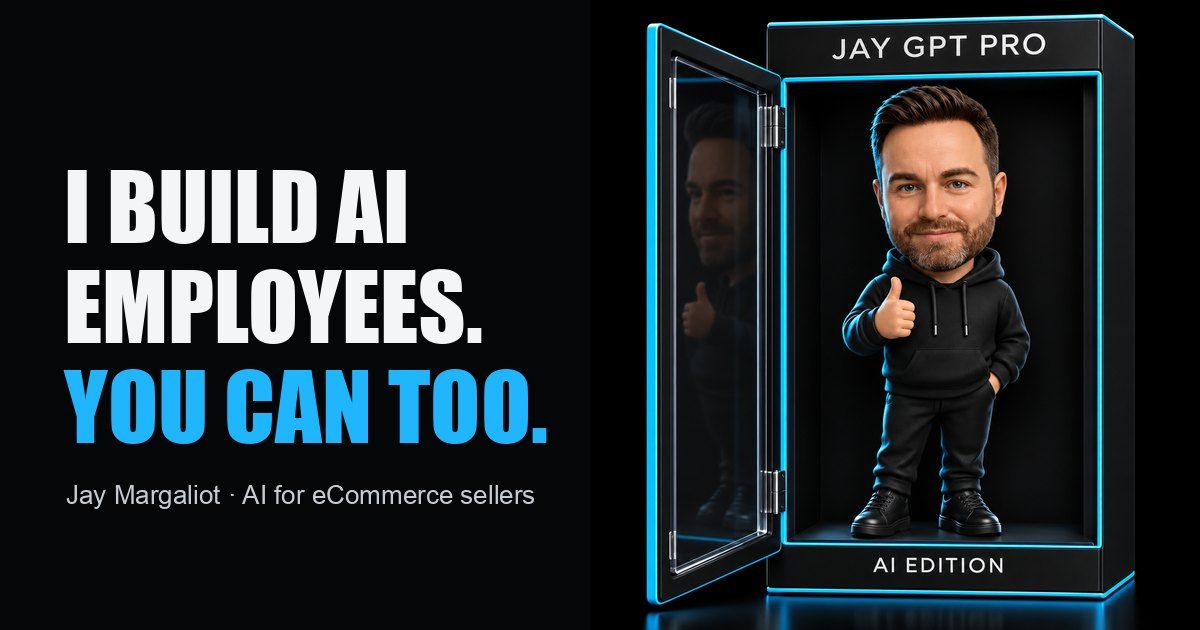
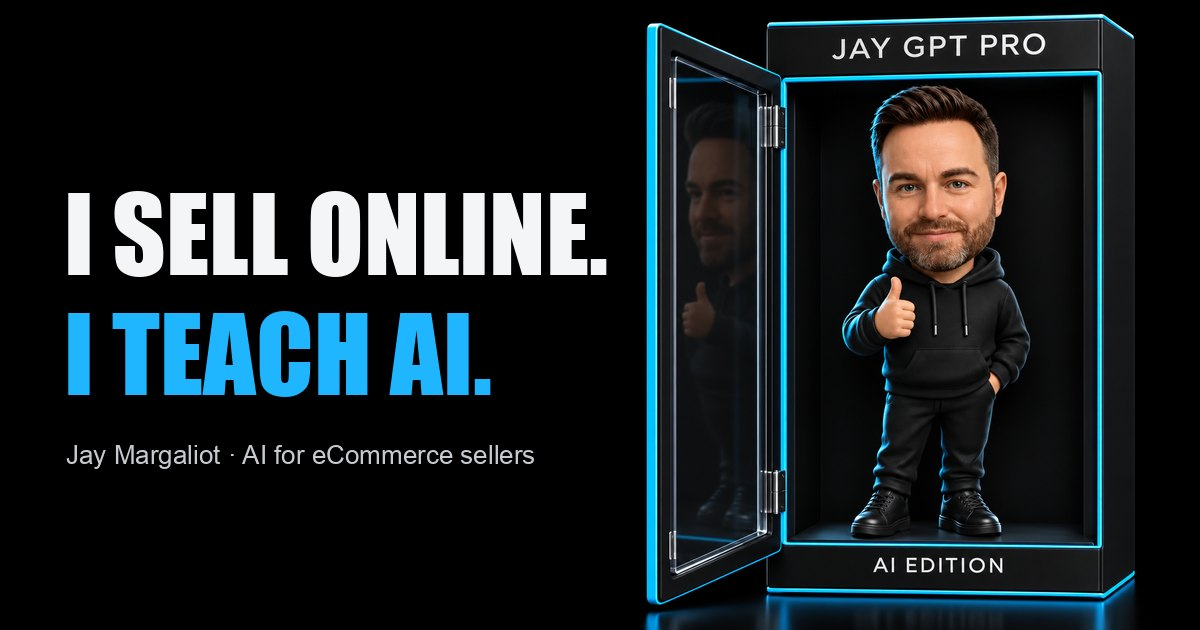
Homepage copy: say who Jay is and everything he sells
Rewritten with Codex review and Jay's voice file. The headline was about one
product (building AI employees); it now says who Jay is: "I sell online.
I teach AI." The sub, shelf, about and end sections name the community,
courses, Vault, calls, films and deals. The unverified "400+ challenge
graduates" is replaced by "10 years selling online". Title, meta
description, Person data and the share image follow the new headline.

Changed region(s): [[0.0308, 0.2714, 0.5242, 0.8143]]

diff --git a/index.html b/index.html
@@ -3,13 +3,13 @@
 <head>
 <meta charset="utf-8">
 <meta name="viewport" content="width=device-width,initial-scale=1,viewport-fit=cover">
-<title>Jay Margaliot | AI for eCommerce sellers</title>
-<meta name="description" content="Jay Margaliot teaches Amazon sellers and business owners to build AI employees with Claude Code, without code. Join the free WhatsApp group for AI tools and hacks.">
+<title>Jay Margaliot | Practical AI for eCommerce sellers</title>
+<meta name="description" content="Jay Margaliot has sold online for ten years and teaches Amazon sellers and business owners to use AI in their business, without code. Join the free WhatsApp group, or explore his courses and services.">
 <link rel="canonical" href="https://jaygptpro.com/">
 <meta name="theme-color" content="#050607">
 <meta property="og:type" content="profile">
 <meta property="og:site_name" content="Jay GPT Pro">
-<meta property="og:title" content="Jay Margaliot | I build AI employees. You can too.">
+<meta property="og:title" content="Jay Margaliot | I sell online. I teach AI.">
 <meta property="og:description" content="AI for eCommerce sellers and business owners. Free WhatsApp group, the Claude Code Challenge, the AI Vault.">
 <meta property="og:url" content="https://jaygptpro.com/">
 <meta property="og:image" content="https://jaygptpro.com/home/og.jpg">
@@ -25,8 +25,8 @@
 <script type="application/ld+json">
 {"@context":"https://schema.org","@graph":[
  {"@type":"WebSite","@id":"https://jaygptpro.com/#site","url":"https://jaygptpro.com/","name":"Jay GPT Pro","publisher":{"@id":"https://jaygptpro.com/#jay"}},
- {"@type":"ProfilePage","@id":"https://jaygptpro.com/#page","url":"https://jaygptpro.com/","name":"Jay Margaliot | AI for eCommerce sellers","isPartOf":{"@id":"https://jaygptpro.com/#site"},"mainEntity":{"@id":"https://jaygptpro.com/#jay"}},
- {"@type":"Person","@id":"https://jaygptpro.com/#jay","name":"Jay Margaliot","alternateName":["Jay GPT Pro","Jacob Margaliot"],"url":"https://jaygptpro.com/","image":"https://jaygptpro.com/assets/jay-headshot-2026.jpg","jobTitle":"AI educator for eCommerce sellers","description":"Jay Margaliot teaches Amazon sellers and business owners to build AI employees with Claude Code, without code. Ten years in eCommerce.","knowsAbout":["Claude Code","AI for eCommerce","Amazon selling","AI agents","AI automation"],"worksFor":{"@type":"Organization","name":"Jay GPT PRO LLC","url":"https://jaygptpro.com/"},"sameAs":["https://www.linkedin.com/in/jay-margaliot/","https://www.youtube.com/@Jay_Margaliot","https://www.instagram.com/jay_margaliot"]}
+ {"@type":"ProfilePage","@id":"https://jaygptpro.com/#page","url":"https://jaygptpro.com/","name":"Jay Margaliot | Practical AI for eCommerce sellers","isPartOf":{"@id":"https://jaygptpro.com/#site"},"mainEntity":{"@id":"https://jaygptpro.com/#jay"}},
+ {"@type":"Person","@id":"https://jaygptpro.com/#jay","name":"Jay Margaliot","alternateName":["Jay GPT Pro","Jacob Margaliot"],"url":"https://jaygptpro.com/","image":"https://jaygptpro.com/assets/jay-headshot-2026.jpg","jobTitle":"AI educator for eCommerce sellers","description":"Jay Margaliot has sold online for ten years and teaches Amazon sellers and business owners to use AI in their business, without code: a free WhatsApp community, courses, the AI Vault membership and 1-on-1 calls.","knowsAbout":["Claude Code","AI for eCommerce","Amazon selling","AI agents","AI automation"],"worksFor":{"@type":"Organization","name":"Jay GPT PRO LLC","url":"https://jaygptpro.com/"},"sameAs":["https://www.linkedin.com/in/jay-margaliot/","https://www.youtube.com/@Jay_Margaliot","https://www.instagram.com/jay_margaliot"]}
 ]}
 </script>
 <!-- Google Analytics -->
@@ -265,13 +265,13 @@ footer a:hover{color:var(--txt)}
   <div class="wrap hero-grid">
     <div class="copy">
       <p class="kick"><b>Jay Margaliot</b> · AI for eCommerce sellers</p>
-      <h1 class="d"><span class="ln"><span>I build AI</span></span><span class="ln"><span>employees.</span></span><span class="ln"><span class="ac">You can too.</span></span></h1>
-      <p class="sub">Ten years selling online. Now I show Amazon sellers and business owners how to put AI to work, without code.</p>
+      <h1 class="d"><span class="ln"><span>I sell online.</span></span><span class="ln"><span class="ac">I teach AI.</span></span></h1>
+      <p class="sub">Ten years in eCommerce. I show Amazon sellers and business owners how to use AI in their business, without code.</p>
       <a class="btn btn-wa btn-xl mag" href="https://chat.whatsapp.com/ILX65p1yWcaIG3c9WGHpTY" target="_blank" rel="noopener" data-track="wa_hero">
         <svg viewBox="0 0 24 24" fill="none" stroke="currentColor" stroke-width="2" stroke-linecap="round" stroke-linejoin="round" aria-hidden="true"><path d="M21 11.5a8.4 8.4 0 0 1-12.3 7.4L3 21l2.1-5.7A8.4 8.4 0 1 1 21 11.5z"/></svg>
         Join the free WhatsApp group
       </a>
-      <span class="cta-note">AI tools and hacks, a few times a week. Admins only, no spam.</span>
+      <span class="cta-note">AI tools and tips, a few times a week. Only admins post.</span>
     </div>
     <div class="stagebox" id="stagebox">
       <div class="pack" id="pack">
@@ -288,46 +288,46 @@ footer a:hover{color:var(--txt)}
 </section>
 
 <section class="proof" aria-label="Proof"><div class="wrap">
-  <span><b>2,300+</b>sellers in the WhatsApp groups</span>
-  <span><b>400+</b>challenge graduates</span>
+  <span><b>2,300+</b>in the WhatsApp community</span>
+  <span><b>10 years</b>selling online</span>
   <span><b>Top Dog Summit</b>speaker</span>
 </div></section>
 
 <section class="shelf" id="shelf"><div class="wrap">
-  <h2 class="d">Pick one<br><span class="ac">off the shelf.</span></h2>
-  <p class="lead">The first one is free. Start there.</p>
+  <h2 class="d">Pick your<br><span class="ac">next step.</span></h2>
+  <p class="lead">Start with the free WhatsApp group.</p>
   <div class="row">
     <a class="item" href="https://chat.whatsapp.com/ILX65p1yWcaIG3c9WGHpTY" target="_blank" rel="noopener" data-track="shelf_whatsapp">
       <span class="tagc">FREE</span>
       <div class="obj"><img src="/home/p-phone.webp" width="640" height="640" alt="A phone with a chat bubble on a store shelf" loading="lazy"></div>
-      <div class="txt"><h3>WhatsApp group</h3><p>The AI tools and hacks I use, as I find them.</p><span class="go">Join <i>→</i></span></div>
+      <div class="txt"><h3>WhatsApp group</h3><p>AI tools and tips I use in my own business.</p><span class="go">Join <i>→</i></span></div>
     </a>
     <a class="item" href="/claude-code-challenge-join/" data-track="shelf_challenge">
       <span class="tagc">5 DAYS</span>
       <div class="obj"><img src="/home/p-donna.webp" width="640" height="640" alt="Donna, a boxed robot assistant holding an envelope" loading="lazy"></div>
-      <div class="txt"><h3>Claude Code Challenge</h3><p>Build Donna, your first AI employee. No code.</p><span class="go">Start <i>→</i></span></div>
+      <div class="txt"><h3>Claude Code Challenge</h3><p>Build Donna for email, calendar and tasks. No code.</p><span class="go">Start <i>→</i></span></div>
     </a>
     <a class="item" href="https://www.topdog.community/checkout/ai-vault" target="_blank" rel="noopener" data-track="shelf_vault">
       <span class="tagc">MONTHLY</span>
       <div class="obj"><img src="/home/p-vault.webp" width="640" height="640" alt="A small steel vault with its door open" loading="lazy"></div>
-      <div class="txt"><h3>The AI Vault</h3><p>Live deep dives, workflows and prompts for sellers.</p><span class="go">Enter <i>→</i></span></div>
+      <div class="txt"><h3>The AI Vault</h3><p>Live deep dives, workflows and prompts for sellers.</p><span class="go">Join <i>→</i></span></div>
     </a>
   </div>
   <div class="row small">
     <a class="item" href="/wonka/" data-track="shelf_wonka">
       <span class="tagc">10 DAYS</span>
       <div class="obj"><img src="/home/p-wonka.webp" width="640" height="640" alt="Wonka, a boxed robot with a top hat and a paintbrush" loading="lazy"></div>
-      <div class="txt"><h3>Wonka Bootcamp</h3><p>Your AI creative director for Amazon listings.</p></div>
+      <div class="txt"><h3>Wonka Bootcamp</h3><p>Build Wonka, your AI creative director for listing images and A+.</p></div>
     </a>
     <a class="item" href="/call/" data-track="shelf_call">
       <span class="tagc">$400</span>
       <div class="obj"><img src="/home/p-stopwatch.webp" width="640" height="640" alt="A stopwatch on a store shelf" loading="lazy"></div>
-      <div class="txt"><h3>1-on-1 call</h3><p>45 minutes. You leave with an AI roadmap.</p></div>
+      <div class="txt"><h3>1-on-1 strategy call</h3><p>45 minutes. Leave with an AI roadmap.</p></div>
     </a>
     <a class="item" href="/skills-kit/" data-track="shelf_skills">
       <span class="tagc">FREE</span>
       <div class="obj"><img src="/home/p-toolbox.webp" width="640" height="640" alt="A toolbox glowing blue on a store shelf" loading="lazy"></div>
-      <div class="txt"><h3>Free skills</h3><p>67 Claude Code skills for Amazon sellers.</p></div>
+      <div class="txt"><h3>Claude Code skills</h3><p>67 free skills for Amazon sellers.</p></div>
     </a>
   </div>
 </div></section>
@@ -339,7 +339,7 @@ footer a:hover{color:var(--txt)}
 </div></section>
 
 <section class="said"><div class="wrap">
-  <h2 class="d">From the challenge<br><span class="ac">group.</span></h2>
+  <h2 class="d">From the Claude Code<br><span class="ac">Challenge.</span></h2>
   <p class="lead">Real messages from people who built Donna. Names hidden.</p>
   <div class="shots">
     <img src="/home/said/t02.webp" width="720" height="631" alt="A participant after day 1: Donna organized and prioritized their tasks" loading="lazy">
@@ -356,15 +356,15 @@ footer a:hover{color:var(--txt)}
       <dt>Name</dt><dd>Jay Margaliot</dd>
       <dt>Role</dt><dd>AI educator for eCommerce sellers</dd>
       <dt>Experience</dt><dd>10 years selling online</dd>
-      <dt>Skill</dt><dd>Turns Claude Code into employees</dd>
-      <dt>Not included</dt><dd>A computer science degree</dd>
+      <dt>Skill</dt><dd>Putting AI to work</dd>
+      <dt>Not included</dt><dd>Tech jargon</dd>
     </dl>
-    <p class="warn">Everything on this shelf is something I use in my own business.</p>
+    <p class="warn">Everything I teach, I use in my own business.</p>
   </div>
   <div>
-    <h2 class="d">Not a developer.<br><span class="ac">A business owner.</span></h2>
-    <p>Jay Margaliot teaches Amazon sellers and business owners to build AI employees with Claude Code, without code.</p>
-    <p>I learned to make AI run real parts of my business. Now I teach other owners to do the same, in my community, on stages and in webinars.</p>
+    <h2 class="d">From seller<br><span class="ac">to AI teacher.</span></h2>
+    <p>I'm Jay Margaliot. I teach Amazon sellers and business owners how to use AI for daily tasks, product images and more.</p>
+    <p>Learn with me through <a class="ac" href="/claude-code-challenge-join/">courses</a>, the AI Vault, talks and webinars. Book a <a class="ac" href="/call/">strategy call</a>, get a <a class="ac" href="/christmas-video/">product film</a> made for you, or browse my <a class="ac" href="/deals/">AI tool deals</a>.</p>
     <div class="links">
       <a href="/about/#speaking" data-track="book_speaking">Book me to speak</a>
       <a href="/about/" data-track="about_page">More about me</a>
@@ -376,7 +376,7 @@ footer a:hover{color:var(--txt)}
 </div></section>
 
 <section class="end"><div class="wrap">
-  <h2 class="d">Get in<br><span class="ac">the group.</span></h2>
+  <h2 class="d">Start with<br><span class="ac">the free group.</span></h2>
   <a class="btn btn-wa btn-xl mag" href="https://chat.whatsapp.com/ILX65p1yWcaIG3c9WGHpTY" target="_blank" rel="noopener" data-track="wa_end">Join the free WhatsApp group</a>
 </div></section>
 </main>
